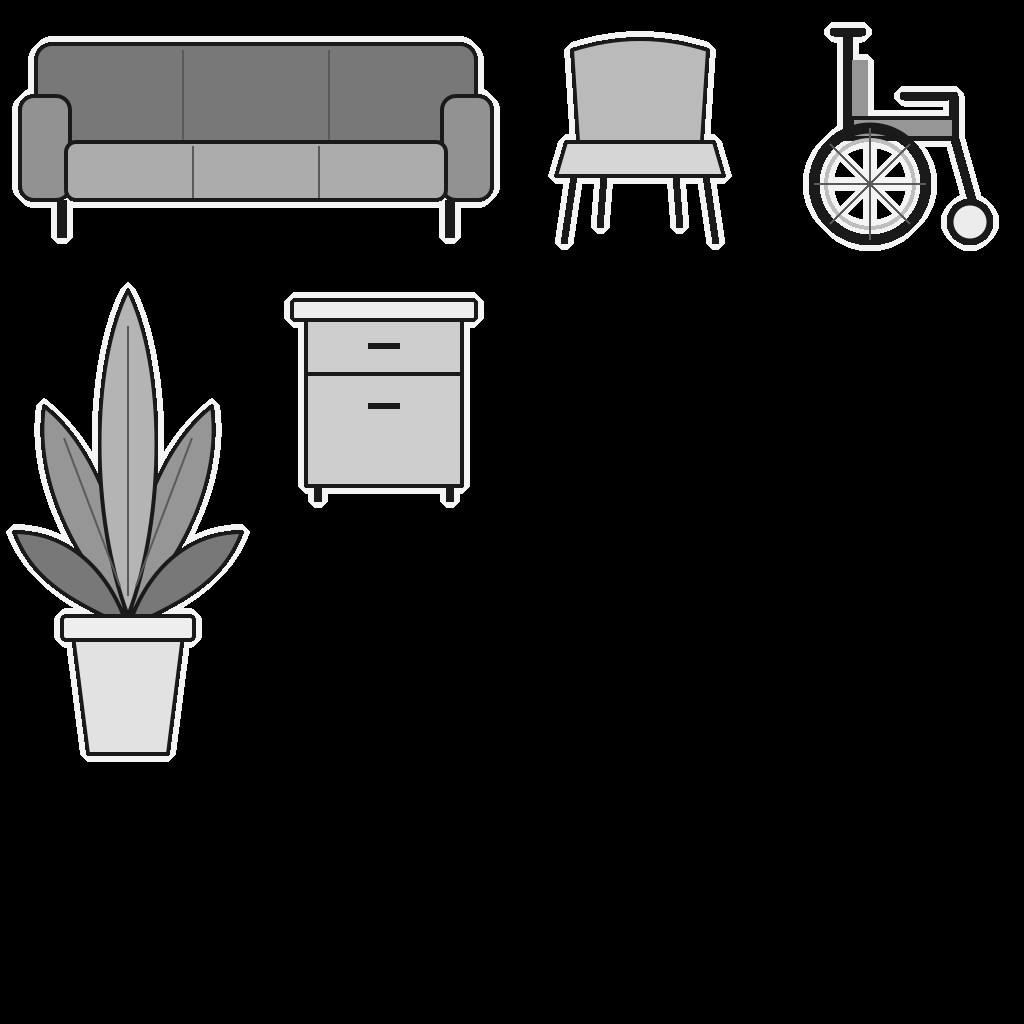
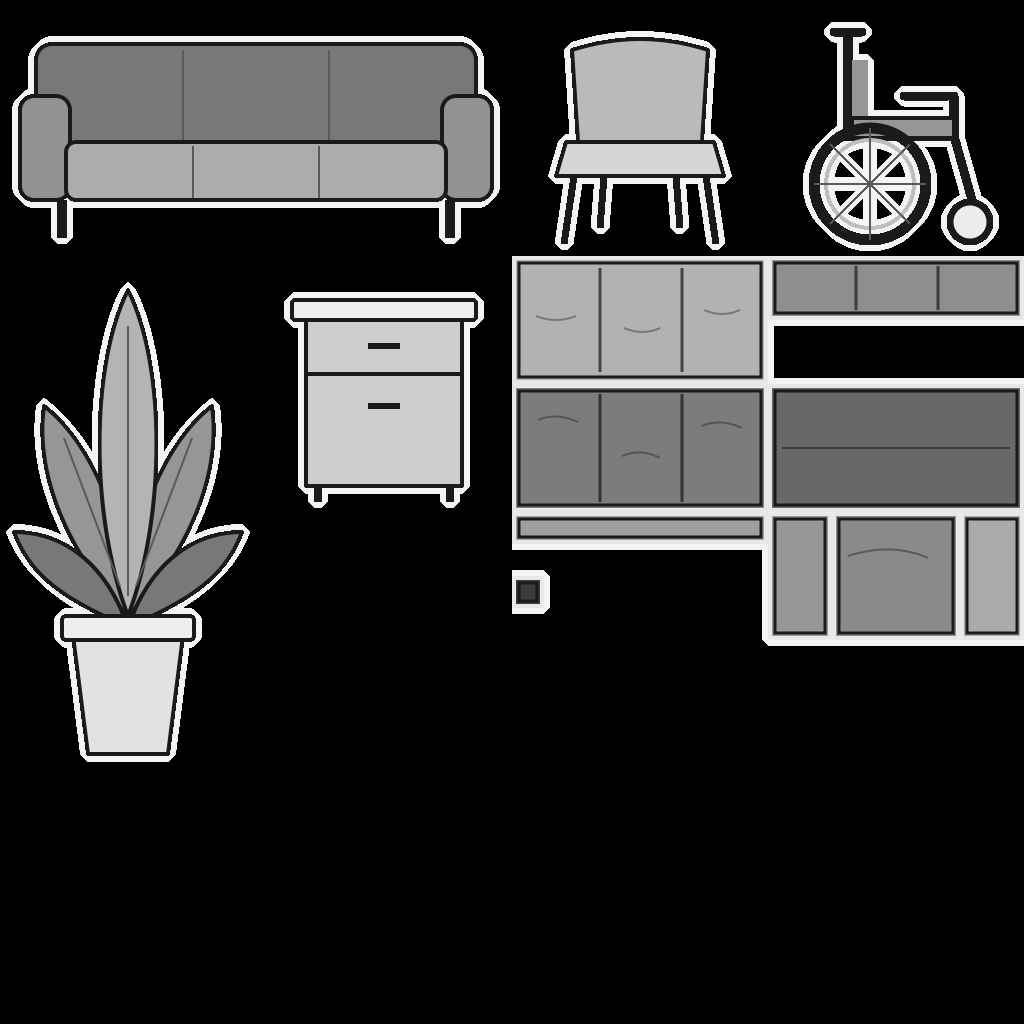
병문안 v0.66: 로비 소파를 스킨을 입힌 입체로 시험
상자를 조립하고 면마다 그림을 입혀, 앞, 옆, 뒤가 각각 다르게 보인다. 스킨은 코드로 그렸다.
안내 데스크 뒷벽 너머로 말을 걸 수 있던 문제도 고쳤다.

Changed region(s): [[0.5, 0.25, 1.0, 0.6562]]

diff --git a/src/features/visit/hospitalScene.ts b/src/features/visit/hospitalScene.ts
@@ -1,7 +1,7 @@
 // The first-person view: one floor at a time, built from hospitalMap.ts. Only draws while something moves.
 // three.js loads here and nowhere else, so it costs nothing until you reach the hospital.
 import { charAt, DX, DY, GIRL_FRONT, ROOM_ENTRY, turn, walkable, type Cell, type Dir, type FloorNo, type Pose } from './hospitalMap';
-import { EXTRA_PART, FURNITURE_PART, GIRL_PART, loadSheets, LYING_PART, PERSON_SLOT, PROP, SHEET, SLOT_H, SLOT_W, tileAt, TILE, TILES, type ExtraPart, type FurniturePart, type GirlPart, type LyingPart, type PersonLook } from './hospitalArt';
+import { EXTRA_PART, FURNITURE_PART, GIRL_PART, loadSheets, LYING_PART, PERSON_SLOT, PROP, SHEET, SLOT_H, SLOT_W, SOFA_SKIN, tileAt, TILE, TILES, type ExtraPart, type FurniturePart, type GirlPart, type LyingPart, type PersonLook, type SkinFace } from './hospitalArt';
 
 const STEP_MS = 280;
 const FOCUS_MS = 420;
@@ -76,7 +76,7 @@ void main() {
   else gl_FragColor = vec4(mix(c, uFog, fog) * uDim, 1.0);
 }`;
 
-export type SpriteLook = PersonLook | keyof typeof PROP | GirlPart | LyingPart | ExtraPart | FurniturePart;
+export type SpriteLook = PersonLook | keyof typeof PROP | GirlPart | LyingPart | ExtraPart | FurniturePart | 'sofaBox';
 export type HospitalSprite = {
   cell: Cell;
   look: SpriteLook;
@@ -88,6 +88,8 @@ export type HospitalSprite = {
   id?: string;
   /** Part of the furniture of her room: no folding up, no shadow. */
   fixed?: boolean;
+  /** A solid: the way its front faces. It stays put as you walk round it, where a cutout turns to you. */
+  face?: Dir;
 };
 /** What to look at: a point above a cell, from how far away. */
 export type FocusTarget = { cell: Cell; height: number; away: number; eye?: number };
@@ -155,6 +157,23 @@ const SPRITE_SIZE: Partial<Record<SpriteLook, { w: number; h: number }>> = {
   signShop: { w: 0.6, h: 0.15 },
 };
 const PERSON_SIZE = { w: 0.4, h: 0.8 };
+
+// The sofa as boxes with a skin on them: across, up and front to back, then which drawing goes on which side.
+type Box = { x: [number, number]; y: [number, number]; z: [number, number]; front: SkinFace; rear: SkinFace; side: SkinFace; top: SkinFace };
+const SOFA_LEG = (x: number, z: number): Box => ({ x: [x - 0.02, x + 0.02], y: [0, 0.1], z: [z - 0.02, z + 0.02], front: 'leg', rear: 'leg', side: 'leg', top: 'leg' });
+const SOFA_ARM = (x0: number, x1: number): Box => ({ x: [x0, x1], y: [0.1, 0.3], z: [-0.2, 0.2], front: 'armFront', rear: 'armFront', side: 'armSide', top: 'armTop' });
+const SOFA_BOXES: Box[] = [
+  { x: [-0.36, 0.36], y: [0.1, 0.22], z: [-0.12, 0.2], front: 'seatFront', rear: 'seatFront', side: 'armFront', top: 'seatTop' },
+  { x: [-0.36, 0.36], y: [0.1, 0.46], z: [-0.2, -0.1], front: 'backFront', rear: 'backRear', side: 'armSide', top: 'backTop' },
+  SOFA_ARM(-0.45, -0.36),
+  SOFA_ARM(0.36, 0.45),
+  SOFA_LEG(-0.4, -0.16),
+  SOFA_LEG(0.4, -0.16),
+  SOFA_LEG(-0.4, 0.16),
+  SOFA_LEG(0.4, 0.16),
+];
+// Light from above, so its sides read as sides.
+const FACE_SHADE = { front: 0.96, rear: 0.74, left: 0.84, right: 0.84, top: 1 };
 
 const hash = (x: number, y: number, d: number) => {
   const n = Math.sin(x * 12.9898 + y * 78.233 + d * 37.719) * 43758.5453;
@@ -228,6 +247,7 @@ export async function createHospitalScene(host: HTMLElement, dayLight: string): 
   };
   const cutouts: Cutout[] = [];
   const shadows: InstanceType<typeof THREE.Mesh>[] = [];
+  const solids: InstanceType<typeof THREE.Mesh>[] = [];
   let held: { mesh: InstanceType<typeof THREE.Mesh>; from: { x: number; y: number; z: number }; t: number } | null = null;
 
   let cam = { x: 0.5, y: EYE, z: 0.5, yaw: 0, pitch: 0, dim: 1, holdT: 0 };
@@ -431,6 +451,50 @@ export async function createHospitalScene(host: HTMLElement, dayLight: string): 
     return mesh;
   };
 
+  const makeSofa = () => {
+    const positions: number[] = [];
+    const uvs: number[] = [];
+    const shades: number[] = [];
+    const indices: number[] = [];
+    // from a corner, along two edges whose cross product points outward
+    const side = (o: number[], r: number[], u: number[], skin: SkinFace, shade: number) => {
+      const base = positions.length / 3;
+      const px = SOFA_SKIN[skin];
+      const u0 = (px.x + UV_INSET) / SHEET;
+      const u1 = (px.x + px.w - UV_INSET) / SHEET;
+      const v0 = (px.y + UV_INSET) / SHEET;
+      const v1 = (px.y + px.h - UV_INSET) / SHEET;
+      [[0, 0, u0, v1], [1, 0, u1, v1], [1, 1, u1, v0], [0, 1, u0, v0]].forEach(([a, b, tu, tv]) => {
+        positions.push(o[0] + r[0] * a + u[0] * b, o[1] + r[1] * a + u[1] * b, o[2] + r[2] * a + u[2] * b);
+        uvs.push(tu, tv);
+        shades.push(shade);
+      });
+      indices.push(base, base + 1, base + 2, base, base + 2, base + 3);
+    };
+    for (const b of SOFA_BOXES) {
+      const [x0, x1] = b.x;
+      const [y0, y1] = b.y;
+      const [z0, z1] = b.z;
+      const w = x1 - x0;
+      const h = y1 - y0;
+      const d = z1 - z0;
+      side([x0, y0, z1], [w, 0, 0], [0, h, 0], b.front, FACE_SHADE.front);
+      side([x1, y0, z0], [-w, 0, 0], [0, h, 0], b.rear, FACE_SHADE.rear);
+      side([x1, y0, z1], [0, 0, -d], [0, h, 0], b.side, FACE_SHADE.right);
+      side([x0, y0, z0], [0, 0, d], [0, h, 0], b.side, FACE_SHADE.left);
+      side([x0, y1, z1], [w, 0, 0], [0, 0, -d], b.top, FACE_SHADE.top);
+    }
+    const geometry = new THREE.BufferGeometry();
+    geometry.setAttribute('position', new THREE.Float32BufferAttribute(positions, 3));
+    geometry.setAttribute('uv', new THREE.Float32BufferAttribute(uvs, 2));
+    geometry.setAttribute('aShade', new THREE.Float32BufferAttribute(shades, 1));
+    geometry.setAttribute('aLit', new THREE.Float32BufferAttribute(shades.map(() => 0), 1));
+    geometry.setIndex(indices);
+    const mesh = new THREE.Mesh(geometry, materials.furniture);
+    mesh.frustumCulled = false;
+    return mesh;
+  };
+
   // Stops when nothing is folding or flipping any more; a moving camera draws them on its own.
   let paperFrame = 0;
   let cameraMoving = false;
@@ -453,12 +517,31 @@ export async function createHospitalScene(host: HTMLElement, dayLight: string): 
     cutouts.length = 0;
     for (const m of shadows) scene.remove(m);
     shadows.length = 0;
+    for (const m of solids) {
+      scene.remove(m);
+      m.geometry.dispose();
+    }
+    solids.length = 0;
     const started = performance.now();
     for (const s of sprites) {
-      const mesh = makeSpriteMesh(s.look);
       const [across, along, up] = s.shift ?? [0, 0, 0];
       const x = s.cell.x + 0.5 + across;
       const z = s.cell.y + 0.5 + along;
+      if (s.look === 'sofaBox') {
+        const solid = makeSofa();
+        solid.position.set(x, up, z);
+        const face = s.face ?? 2;
+        solid.rotation.y = Math.atan2(DX[face], DY[face]);
+        scene.add(solid);
+        solids.push(solid);
+        const shadow = new THREE.Mesh(shadowGeometry, shadowMaterial);
+        shadow.scale.set(1.1, 1, 0.7);
+        shadow.position.set(x, 0.004, z);
+        scene.add(shadow);
+        shadows.push(shadow);
+        continue;
+      }
+      const mesh = makeSpriteMesh(s.look);
       mesh.position.set(x, up, z);
       scene.add(mesh);
       const key = `${s.look}@${s.cell.x},${s.cell.y}`;
@@ -604,6 +687,7 @@ export async function createHospitalScene(host: HTMLElement, dayLight: string): 
       dropHeld();
       building?.geometry.dispose();
       for (const o of cutouts) o.mesh.geometry.dispose();
+      for (const m of solids) m.geometry.dispose();
       shadowGeometry.dispose();
       shadowMaterial.dispose();
       for (const m of Object.values(materials)) m.dispose();

diff --git a/scripts/assets/build-hospital-sheets.js b/scripts/assets/build-hospital-sheets.js
@@ -292,6 +292,24 @@ const ROOM_THINGS = [
   },
 ];
 
+// The sofa that stands in the room as a solid: every side of it laid out flat, like a skin (SOFA_SKIN in hospitalArt.ts).
+// Each side is its own piece of card, with a pale edge where it folds.
+const skinFace = (x, y, w, h, tone, extra = '') => `<rect x="${x + 2}" y="${y + 2}" width="${w - 4}" height="${h - 4}" fill="rgb(${tone},${tone},${tone})" stroke="rgb(232,232,232)" stroke-width="4"/><rect x="${x + 7}" y="${y + 7}" width="${w - 14}" height="${h - 14}" fill="none" stroke="rgb(26,26,26)" stroke-width="3"/>${extra}`;
+const SOFA_SKIN_ART = {
+  cell: { x: 512, y: 256, w: 512, h: 512 },
+  svg: `<svg width="512" height="512">${[
+    skinFace(0, 0, 256, 128, 178, '<path d="M88 12 V116 M170 12 V116" stroke="rgb(70,70,70)" stroke-width="3"/><path d="M24 60 q20 8 40 0 M112 72 q18 8 36 0 M192 54 q18 8 36 0" fill="none" stroke="rgb(120,120,120)" stroke-width="2"/>'),
+    skinFace(256, 0, 256, 64, 142, '<path d="M344 10 V54 M426 10 V54" stroke="rgb(60,60,60)" stroke-width="3"/>'),
+    skinFace(0, 128, 256, 128, 124, '<path d="M88 138 V246 M170 138 V246" stroke="rgb(50,50,50)" stroke-width="3"/><path d="M26 164 q18 -8 40 2 M110 200 q20 -8 38 2 M190 170 q18 -8 40 2" fill="none" stroke="rgb(85,85,85)" stroke-width="2"/>'),
+    skinFace(256, 128, 256, 128, 104, '<path d="M270 192 H498" stroke="rgb(60,60,60)" stroke-width="2"/>'),
+    skinFace(0, 256, 256, 32, 158),
+    skinFace(256, 256, 64, 128, 150),
+    skinFace(320, 256, 128, 128, 138, '<path d="M336 300 q44 -14 80 2" fill="none" stroke="rgb(90,90,90)" stroke-width="2"/>'),
+    skinFace(448, 256, 64, 128, 170),
+    skinFace(0, 320, 32, 32, 60),
+  ].join('')}</svg>`,
+};
+
 async function buildSheet(name) {
   const sheet = new Uint8Array(SHEET * SHEET);
   for (const item of ITEMS[name]) {
@@ -319,7 +337,7 @@ async function buildSheet(name) {
     cutEdge(sheet, item.cell, edge, item.solid ? 180 : 244);
   }
   if (name === 'extra' || name === 'furniture') {
-    for (const f of name === 'extra' ? FURNITURE : ROOM_THINGS) {
+    for (const f of name === 'extra' ? FURNITURE : [...ROOM_THINGS, SOFA_SKIN_ART]) {
       const { data } = await sharp(Buffer.from(f.svg)).extractChannel('red').raw().toBuffer({ resolveWithObject: true });
       const a = await sharp(Buffer.from(f.svg)).extractChannel('alpha').raw().toBuffer();
       for (let y = 0; y < f.cell.h; y++) {

diff --git a/src/features/visit/hospitalArt.ts b/src/features/visit/hospitalArt.ts
@@ -344,6 +344,25 @@ export const FURNITURE_PART = {
 } as const;
 export type FurniturePart = keyof typeof FURNITURE_PART;
 
+/**
+ * The sides of the solid sofa, laid out flat on the furniture sheet like a skin. Each is a rectangle, in pixels; to dress
+ * a sofa differently, only this drawing changes.
+ */
+const SKIN_AT = { x: 512, y: 256 };
+const skinFace = (x: number, y: number, w: number, h: number) => ({ x: SKIN_AT.x + x, y: SKIN_AT.y + y, w, h });
+export const SOFA_SKIN = {
+  seatTop: skinFace(0, 0, 256, 128),
+  seatFront: skinFace(256, 0, 256, 64),
+  backFront: skinFace(0, 128, 256, 128),
+  backRear: skinFace(256, 128, 256, 128),
+  backTop: skinFace(0, 256, 256, 32),
+  armFront: skinFace(256, 256, 64, 128),
+  armSide: skinFace(320, 256, 128, 128),
+  armTop: skinFace(448, 256, 64, 128),
+  leg: skinFace(0, 320, 32, 32),
+} as const;
+export type SkinFace = keyof typeof SOFA_SKIN;
+
 /** The first day, with her hair down, and the lobby's furniture. */
 export const EXTRA_PART = {
   lyingLooseWindow: { x: 0, y: 0, w: 512, h: 512 },

diff --git a/src/features/visit/hospitalMap.ts b/src/features/visit/hospitalMap.ts
@@ -245,6 +245,8 @@ export function thingAt(p: Pose, clueHere: boolean): Thing | null {
   const c = charAt(p.floor, front.x, front.y);
   if (c === 'E') return { kind: 'lift' };
   if (c === 'S') return { kind: 'stairs' };
+  // The front desk has its wall behind it, so there's no talking to the guide from that side.
+  if (isPerson(c) && p.floor === 1 && c === 'i' && p.dir === 0) return { kind: 'look', text: '층별 안내판의 뒷면이다.', wall: true };
   if (isPerson(c)) return { kind: 'person', id: `${p.floor}${c}` };
   if (c === 'N') return p.floor === 3 ? { kind: 'person', id: '3N' } : { kind: 'look', text: '간호사 스테이션이다. 지금은 아무도 없다.', wall: true };
   if (c === '%') return { kind: 'look', text: HOSPITAL[p.floor].blocked ?? '' };

diff --git a/src/features/visit/Hospital.tsx b/src/features/visit/Hospital.tsx
@@ -116,7 +116,7 @@ export default function Hospital({ day, run, fontScale, light, doneToday, bought
         if (person && c !== 'N') out.push({ cell: { x, y }, look: person.look });
         if (c === '%') out.push({ cell: { x, y }, look: PROP_ON_FLOOR[floor] });
         if (c === 'T') out.push({ cell: { x, y }, look: 'tree' });
-        if (c === '&') out.push({ cell: { x, y }, look: 'sofa' });
+        if (c === '&') out.push({ cell: { x, y }, look: 'sofaBox', face: 0 });
         if (c === '^') out.push({ cell: { x, y }, look: 'plant' });
       })
     );

diff --git a/docs/병원_지도.md b/docs/병원_지도.md
@@ -66,6 +66,10 @@
 
 복도는 숨을 고르는 한 칸으로 두고, 로비와 병실만 넓다. 소녀의 병실은 세 칸 폭으로 실제 1인실보다 크지만, 침대를 중심에 두는 연출을 위해 남겨 두었다.
 
+## 입체 가구 시험 (사용자의 제안)
+
+마인크래프트 스킨처럼 상자를 조립하고 면마다 그림을 입히는 방식이다. 지금은 1층 로비 소파 2개만 이렇게 만들었다. 다른 곳의 소파와 의자, 화분은 아직 늘 나를 향하는 오린 그림이다. 스킨은 코드로 그렸고 `hospitalArt.ts`의 `SOFA_SKIN` 자리만 바꾸면 다른 그림을 입힐 수 있다.
+
 ## 안내 데스크와 매점 (코드로 그림)
 
 글자가 정확해야 해서 Gemini를 쓰지 않고 코드로 그렸다.
